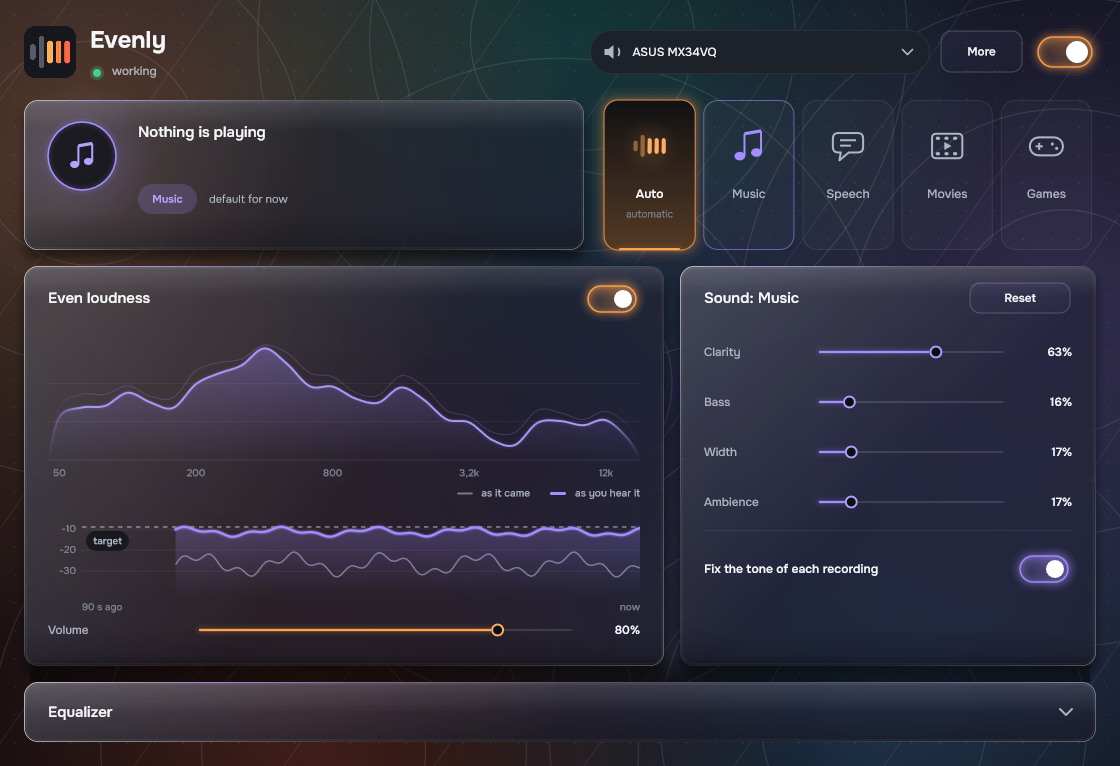
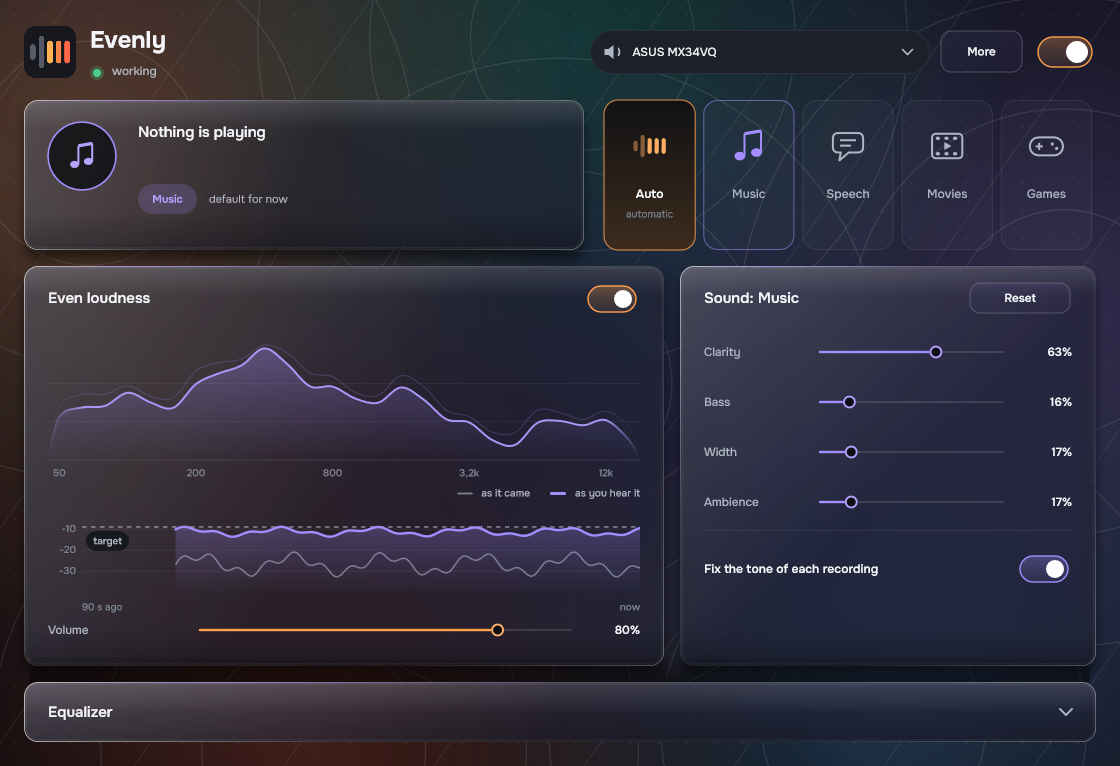
No neon glow, no bars under the selected mode; quick menu lives while Alt is held and closes on release

diff --git a/Source/app/MainComponent.cpp b/Source/app/MainComponent.cpp
@@ -59,7 +59,6 @@ void RovnoLookAndFeel::drawButtonBackground (juce::Graphics& g, juce::Button& b,
     const juce::Colour c = primary ? col::accent : neoTint();
     juce::Path p;
     p.addRoundedRectangle (r, 10.0f);
-    if (over || down) juce::DropShadow (c.withAlpha (primary ? 0.45f : 0.30f), 10, { 0, 0 }).drawForPath (g, p);
     g.setGradientFill (juce::ColourGradient (c.withAlpha (primary ? 0.30f : (down ? 0.20f : (over ? 0.14f : 0.06f))), 0, r.getY(),
                                              c.withAlpha (primary ? 0.12f : 0.02f), 0, r.getBottom(), false));
     g.fillPath (p);
@@ -266,14 +265,10 @@ public:
             softGlow (g, p, pillColour, 0.30f, 12.0f);
             g.setColour (col::bg);
             g.fillPath (p);
-            g.setGradientFill (juce::ColourGradient (pillColour.withAlpha (0.02f), r.getX(), r.getY(), pillColour.withAlpha (0.30f), r.getX(), r.getBottom(), false));
+            g.setGradientFill (juce::ColourGradient (pillColour.withAlpha (0.02f), r.getX(), r.getY(), pillColour.withAlpha (0.20f), r.getX(), r.getBottom(), false));
             g.fillPath (p);
             g.setColour (pillColour.withAlpha (0.75f));
             g.strokePath (p, juce::PathStrokeType (1.2f));
-            juce::Path base;
-            base.startNewSubPath (r.getX() + 16.0f, r.getBottom() - 1.0f);
-            base.lineTo (r.getRight() - 16.0f, r.getBottom() - 1.0f);
-            glowStroke (g, base, pillColour, 2.0f, 0.8f);
         }
         for (size_t i = 0; i < items.size(); ++i)
         {
@@ -469,11 +464,6 @@ public:
         curve (shownPeaks, tops);
         strokeFaded (tops, 1.0f, base, live ? 0.24f : 0.08f);
         const juce::Colour lineColour = base.brighter (0.15f);
-        if (live)
-        {
-            strokeFaded (line, 7.0f, lineColour, 0.035f);
-            strokeFaded (line, 4.0f, lineColour, 0.07f);
-        }
         strokeFaded (line, 2.0f, lineColour, live ? 0.95f : 0.35f);
 
         g.setColour (col::faint);
@@ -596,8 +586,6 @@ public:
                     fill.closeSubPath();
                     g.setGradientFill (juce::ColourGradient (oc.withAlpha (0.30f), 0, r.getY(), oc.withAlpha (0.0f), 0, r.getBottom(), false));
                     g.fillPath (fill);
-                    g.setColour (oc.withAlpha (0.25f));
-                    g.strokePath (p, juce::PathStrokeType (5.0f, juce::PathStrokeType::curved, juce::PathStrokeType::rounded));
                     g.setColour (oc);
                     g.strokePath (p, juce::PathStrokeType (2.4f, juce::PathStrokeType::curved, juce::PathStrokeType::rounded));
                 }
@@ -673,8 +661,6 @@ public:
         fill.closeSubPath();
         g.setGradientFill (juce::ColourGradient (colour.withAlpha (0.20f), 0, r.getY(), colour.withAlpha (0.02f), 0, r.getBottom(), false));
         g.fillPath (fill);
-        g.setColour (colour.withAlpha (0.25f));
-        g.strokePath (p, juce::PathStrokeType (6.0f, juce::PathStrokeType::curved, juce::PathStrokeType::rounded));
         g.setColour (colour);
         g.strokePath (p, juce::PathStrokeType (2.6f, juce::PathStrokeType::curved, juce::PathStrokeType::rounded));
         for (int i = 0; i < 10; ++i)

diff --git a/Source/app/QuickMenu.cpp b/Source/app/QuickMenu.cpp
@@ -6,7 +6,6 @@ namespace rv::ui
 namespace
 {
 const Kind kTiles[5] = { Kind::Unknown, Kind::Music, Kind::Speech, Kind::Movie, Kind::Game };
-constexpr double kAutoApplyMs = 1300;   // how long the lit mode waits before it is applied by itself
 constexpr int kMargin = 24;             // room for the glow around the panel
 } // namespace
 
@@ -66,6 +65,8 @@ QuickMenu::QuickMenu (Controller& controller) : c (controller)
 
 QuickMenu::~QuickMenu() = default;
 
+bool QuickMenu::altDown() { return (GetAsyncKeyState (VK_MENU) & 0x8000) != 0; }
+
 int QuickMenu::currentIndex() const
 {
     if (c.autoMode()) return 0;
@@ -107,6 +108,8 @@ void QuickMenu::show()
     outSince = nowMs();
     lastMouse = juce::Desktop::getMousePosition();
     flash = 0;
+    applying = false;
+    shownAt = nowMs();
     glow.fill (0);
     if (! isOnDesktop())
         addToDesktop (juce::ComponentPeer::windowIsTemporary | juce::ComponentPeer::windowIsSemiTransparent | juce::ComponentPeer::windowIgnoresKeyPresses);
@@ -125,6 +128,8 @@ void QuickMenu::hide()
 
 void QuickMenu::choose (int index)
 {
+    if (applying) return;
+    applying = true;
     focus = index;
     autoApply = false;
     if (kTiles[index] == Kind::Unknown) c.setAuto(); else c.pick (kTiles[index]);
@@ -149,9 +154,8 @@ void QuickMenu::timerCallback()
         glow[i] += (t - glow[i]) * rate (dt(), 20.0f);
     }
     flash = std::max (0.0f, flash - dt() * 3.0f);
-    if (shown && autoApply && nowMs() - lastTap >= kAutoApplyMs) choose (focus);
-    // opened and then left alone with the mouse outside: close by itself
-    if (shown && ! autoApply && ! keyboardUsed && ! mouseInside && nowMs() - outSince > 1200) hide();
+    // The menu lives while Alt is held: letting go applies the lit mode and closes it (a quick tap shows it for a moment).
+    if (shown && ! applying && ! altDown() && nowMs() - shownAt > 260) choose (focus);
     if (! shown && anim <= 0.0f)
     {
         stopTimer();
@@ -227,13 +231,6 @@ void QuickMenu::paint (juce::Graphics& g)
             g.fillPath (tp);
             g.setColour (kc.withAlpha (0.8f * lit));
             g.strokePath (tp, juce::PathStrokeType (1.3f));
-            // the countdown: the base line fills up; when it is full the mode is applied
-            float fill = 1.0f;
-            if (shown && autoApply) fill = juce::jlimit (0.0f, 1.0f, (float) ((nowMs() - lastTap) / kAutoApplyMs));
-            juce::Path base;
-            base.startNewSubPath (t.getX() + 16, t.getBottom() - 1.0f);
-            base.lineTo (t.getX() + 16 + (t.getWidth() - 32) * fill, t.getBottom() - 1.0f);
-            glowStroke (g, base, kc, 2.0f, 0.8f * lit);
         }
         g.setColour ((current ? kc.withAlpha (0.55f) : juce::Colours::white.withAlpha (0.09f)).withMultipliedAlpha (te * (1.0f - lit * 0.6f)));
         g.drawRoundedRectangle (t.reduced (0.5f), 14.0f, 1.0f);

diff --git a/Source/app/Theme.h b/Source/app/Theme.h
@@ -207,30 +207,18 @@ inline float rate (float dtSeconds, float perSecond) { return 1.0f - std::exp (-
 inline juce::Colour& neoTint() { static juce::Colour c = col::accent; return c; }
 
 // Neon glow: the same path stroked wide and faint, then narrower, then the line itself.
-inline void glowStroke (juce::Graphics& g, const juce::Path& p, juce::Colour c, float width, float glow = 1.0f)
+// The glow helpers are kept (every call site uses them) but they draw no halo any more: just the line.
+inline void glowStroke (juce::Graphics& g, const juce::Path& p, juce::Colour c, float width, float = 1.0f)
 {
-    g.setColour (c.withAlpha (0.035f * glow)); g.strokePath (p, juce::PathStrokeType (width + 9.0f, juce::PathStrokeType::curved, juce::PathStrokeType::rounded));
-    g.setColour (c.withAlpha (0.06f * glow)); g.strokePath (p, juce::PathStrokeType (width + 5.0f, juce::PathStrokeType::curved, juce::PathStrokeType::rounded));
-    g.setColour (c); g.strokePath (p, juce::PathStrokeType (width, juce::PathStrokeType::curved, juce::PathStrokeType::rounded));
+    g.setColour (c);
+    g.strokePath (p, juce::PathStrokeType (width, juce::PathStrokeType::curved, juce::PathStrokeType::rounded));
 }
 
 // A soft halo around a path from four strokes of growing width (cheap enough to repaint every frame, unlike a
 // blurred DropShadow). Draw the opaque interior of the shape over it.
-inline void softGlow (juce::Graphics& g, const juce::Path& p, juce::Colour c, float alpha, float spread = 10.0f)
-{
-    const float widths[4] = { 2.0f, 1.4f, 0.9f, 0.5f }, alphas[4] = { 0.05f, 0.07f, 0.10f, 0.14f };
-    for (int i = 0; i < 4; ++i)
-    {
-        g.setColour (c.withAlpha (juce::jlimit (0.0f, 1.0f, alpha * alphas[i] / 0.5f)));
-        g.strokePath (p, juce::PathStrokeType (spread * widths[i], juce::PathStrokeType::curved, juce::PathStrokeType::rounded));
-    }
-}
+inline void softGlow (juce::Graphics&, const juce::Path&, juce::Colour, float, float = 10.0f) {}
 
-inline void glowDot (juce::Graphics& g, juce::Point<float> c, float radius, juce::Colour colour, float strength = 1.0f)
-{
-    g.setGradientFill (juce::ColourGradient (colour.withAlpha (0.26f * strength), c.x, c.y, colour.withAlpha (0.0f), c.x + radius * 2.6f, c.y, true));
-    g.fillEllipse (c.x - radius * 2.6f, c.y - radius * 2.6f, radius * 5.2f, radius * 5.2f);
-}
+inline void glowDot (juce::Graphics&, juce::Point<float>, float, juce::Colour, float = 1.0f) {}
 
 // True while the main window paints baked glass panes: drawCard then adds only the lit top edge.
 inline bool& glassOn() { static bool on = false; return on; }

diff --git a/Source/app/QuickMenu.h b/Source/app/QuickMenu.h
@@ -32,14 +32,15 @@ private:
     int tileAt (juce::Point<int>) const;
     juce::Rectangle<float> tile (int i) const;
     int currentIndex() const;
+    static bool altDown();
     static double nowMs() { return juce::Time::getMillisecondCounterHiRes(); }
 
     Controller& c;
     int focus = 0;
-    bool shown = false, keyboardUsed = false, autoApply = false, mouseInside = false;
+    bool shown = false, keyboardUsed = false, autoApply = false, mouseInside = false, applying = false;
     float anim = 0.0f;               // 0 hidden .. 1 shown (eased when painted)
     float flash = 0.0f;              // the chosen tile blinks once
-    double lastTap = 0, outSince = 0, lastFrame = 0;
+    double lastTap = 0, outSince = 0, lastFrame = 0, shownAt = 0;
     float dt() const { return frameDt; }
     float frameDt = 1.0f / 60.0f;
     juce::Point<int> lastMouse;

diff --git a/README.ru.md b/README.ru.md
@@ -23,7 +23,7 @@
 - **Учится.** Если вы выбрали режим для какого-то канала или исполнителя, в следующий раз он включится сам.
 - **Подправляет тон плохих записей.** Глухие, бубнящие или тонкие записи подтягиваются к тому, как звучат хорошие. Чудес не бывает, программа не знает, как запись звучала до порчи, поэтому правка мягкая (подробнее ниже). Хорошие записи она почти не трогает.
 - **Эффекты FxSound:** Чёткость, Бас, Объём, Атмосфера и 10-полосный эквалайзер. Это перенос открытого кода FxSound, и он даёт тот же звук бит в бит (проверено на 7 пресетах и 3 записях).
-- **Быстрое меню.** Alt + ` (клавиша слева от единицы, на любой раскладке) открывает над всеми окнами панель, где следующий режим уже подсвечен. Ничего не делайте: через секунду он применится сам. Нажмите клавишу ещё раз, чтобы перейти к следующему (или держите Alt и отпустите, чтобы применить сразу), либо просто щёлкните по режиму. Esc закрывает панель без изменений. Фокус клавиатуры она не забирает.
+- **Быстрое меню.** Удерживайте Alt и нажмите ` (клавиша слева от единицы, на любой раскладке): над всеми окнами откроется панель, следующий режим подсвечен. Нажмите ` ещё раз, чтобы перейти дальше, или наведите мышь и щёлкните по режиму; отпустите Alt, и подсвеченный режим применится, а панель закроется. Короткое нажатие сразу переключает на следующий режим. Esc закрывает панель без изменений. Фокус клавиатуры она не забирает.
 - **Не даёт HDMI-звуку засыпать.** Мониторы и телевизоры по HDMI выключают звук через несколько секунд тишины и съедают начало следующего звука. «Ровно» держит выход проснувшимся.
 - Работает внутри звука Windows: без виртуальных кабелей, без смены устройства по умолчанию, с задержкой 1,5 мс. Громкость Windows продолжает работать как обычно.
 

diff --git a/README.md b/README.md
@@ -23,7 +23,7 @@ It is a replacement for FxSound: the same effects, bit for bit, plus the things 
 - **Learns.** Pick a mode for a channel or an artist once, and next time it switches on its own.
 - **Gently fixes the tone of poor recordings.** Dull, boomy or thin recordings are pulled toward how good ones sound. It cannot work miracles, since it does not know how the recording sounded before it was damaged, so the correction is mild (details below). Good recordings are barely touched.
 - **FxSound's effects:** Clarity, Bass, Width, Ambience and a 10-band equalizer. This is a port of FxSound's open-source code and gives the same sound bit for bit (checked on 7 presets and 3 recordings).
-- **Quick menu.** Alt + ` (the key left of 1, on any layout) opens a small panel over everything with the next mode already lit. Do nothing and it is applied after about a second; tap the key again to move on (hold Alt and release it to apply at once); or just click a mode. Esc closes it without changing anything. It never takes the keyboard focus from the program you are typing in.
+- **Quick menu.** Hold Alt and press ` (the key left of 1, on any layout): a small panel opens over everything with the next mode lit. Press ` again to move on, or hover and click a mode with the mouse; let go of Alt and the lit mode is applied and the panel closes. A quick tap switches to the next mode at once. Esc closes it without changing anything. The panel never takes the keyboard focus from the program you are typing in.
 - **Keeps HDMI and DisplayPort audio awake.** Monitors and TVs switch their audio off after a few seconds of silence and swallow the start of the next sound. Evenly keeps the output awake.
 - Runs inside the Windows audio engine: no virtual cables, no change of the default device, 1.5 ms latency. Windows volume keeps working as usual.
 - 14 interface languages: English, Russian, Estonian, Ukrainian, German, French, Spanish, Italian, Portuguese, Polish, Dutch, Swedish, Finnish, Turkish. It follows your Windows language; change it in the More menu.
